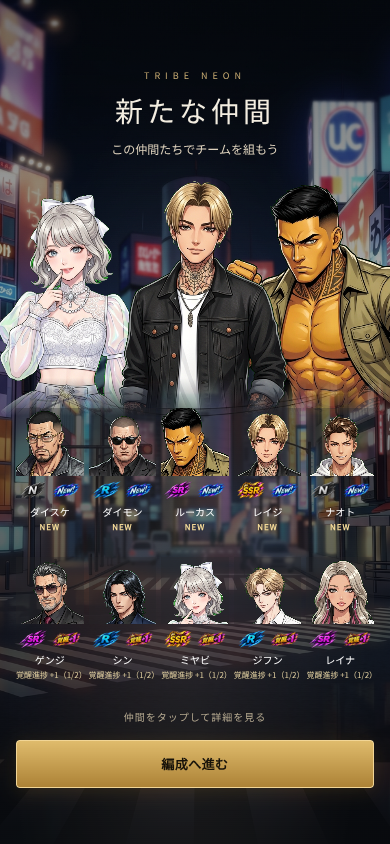
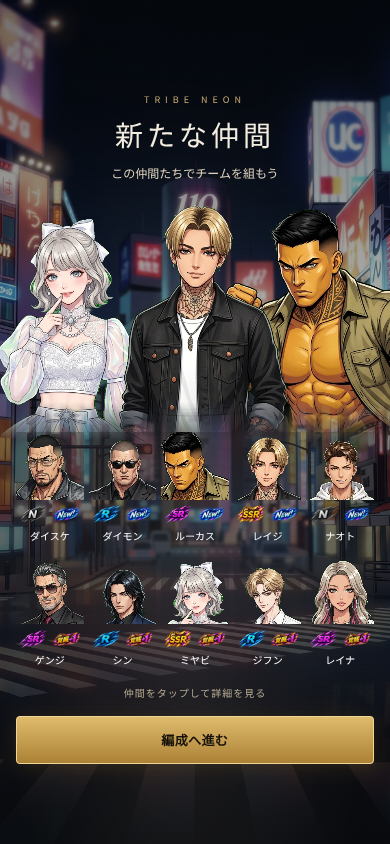
Replace gacha opening with timed city strips and simplify acquisition reveals

diff --git a/src/app/components/gacha/CharacterGachaPresentation.tsx b/src/app/components/gacha/CharacterGachaPresentation.tsx
@@ -23,7 +23,7 @@ type Props = {
   onClose: () => void;
   playSound: (sound: "GACHA_REVEAL" | "GACHA_SR" | "GACHA_SSR") => void;
 };
-type Stage = "OPENING" | "BURST" | "QUOTE" | "IGNITION" | "REVEAL" | "SETTLED" | "SUMMARY";
+type Stage = "OPENING" | "BURST" | "QUOTE" | "REVEAL" | "SETTLED" | "SUMMARY";
 const motionQuery = "(prefers-reduced-motion: reduce)";
 const subscribeMotion = (notify: () => void) => {
   const media = window.matchMedia(motionQuery);
@@ -35,7 +35,8 @@ const town = (result: CharacterGachaResult) => getCharacterLocationBackground(CH
 const outcome = (result: CharacterGachaResult) => result.convertReward === "新規獲得" ? "NEW" : result.convertReward || "獲得";
 const number = (value: number | undefined) => typeof value === "number" && Number.isFinite(value) ? value.toLocaleString("ja-JP") : "—";
 
-const CITIES = ["新宿", "渋谷", "池袋", "六本木", "秋葉原", "川崎", "横浜"];
+const CITY_GROUPS = [["池袋", "秋葉原", "川崎", "横浜"], ["新宿", "渋谷", "六本木"]];
+const CITIES = CITY_GROUPS.flat();
 const ARRIVAL_BACKGROUND = getCharacterLocationBackground("渋谷");
 const acquisitionBadge = (result: CharacterGachaResult) => getAcquisitionBadgeAsset(result.convertReward === "新規獲得" ? "NEW" : "AWAKENING", result.awakeningLevel);
 
@@ -83,6 +84,7 @@ export default function CharacterGachaPresentation(props: Props) {
 
 function ReadyCharacterGacha({ results, tutorial, onReveal, onClose, playSound, onTextOnly }: Props & { onTextOnly: () => void }) {
   const [stage, setStage] = useState<Stage>("OPENING");
+  const [introComplete, setIntroComplete] = useState(false);
   const [index, setIndex] = useState(0);
   const [reviewing, setReviewing] = useState(false);
   const [letters, setLetters] = useState(0);
@@ -131,6 +133,12 @@ function ReadyCharacterGacha({ results, tutorial, onReveal, onClose, playSound, 
   useEffect(() => { if (shell.current) shell.current.scrollTop = 0; }, [index, reviewing]);
 
   useEffect(() => {
+    if (stage !== "OPENING" || !sceneReady) return;
+    const timer = window.setTimeout(() => setIntroComplete(true), reducedMotion ? 0 : 3000);
+    return () => window.clearTimeout(timer);
+  }, [stage, sceneReady, reducedMotion]);
+
+  useEffect(() => {
     if (stage !== "BURST" || !sceneReady) return;
     const timer = window.setTimeout(() => {
       setLetters(0);
@@ -142,7 +150,7 @@ function ReadyCharacterGacha({ results, tutorial, onReveal, onClose, playSound, 
   useEffect(() => {
     if (stage !== "QUOTE" || !sceneReady) return;
     if (reducedMotion || letters >= quote.length) {
-      const timer = window.setTimeout(() => setStage(reducedMotion ? "REVEAL" : "IGNITION"), reducedMotion ? 0 : 600);
+      const timer = window.setTimeout(() => setStage("REVEAL"), reducedMotion ? 0 : 600);
       return () => window.clearTimeout(timer);
     }
     const timer = window.setTimeout(() => setLetters((length) => length + 1), 38);
@@ -150,15 +158,9 @@ function ReadyCharacterGacha({ results, tutorial, onReveal, onClose, playSound, 
   }, [stage, letters, quote, reducedMotion, sceneReady]);
 
   useEffect(() => {
-    if (stage !== "IGNITION" || !sceneReady) return;
-    const timer = window.setTimeout(() => setStage("REVEAL"), reducedMotion ? 0 : 480);
-    return () => window.clearTimeout(timer);
-  }, [stage, sceneReady, reducedMotion]);
-
-  useEffect(() => {
     if (stage !== "REVEAL" || !sceneReady) return;
     callbacks.current.playSound(rarity === "SSR" ? "GACHA_SSR" : rarity === "SR" ? "GACHA_SR" : "GACHA_REVEAL");
-    const timer = window.setTimeout(() => setStage("SETTLED"), reducedMotion ? 0 : rarity === "SSR" ? 1500 : rarity === "SR" ? 750 : 450);
+    const timer = window.setTimeout(() => setStage("SETTLED"), reducedMotion ? 0 : rarity === "SSR" ? 750 : rarity === "SR" ? 750 : 450);
     return () => window.clearTimeout(timer);
   }, [stage, rarity, index, reducedMotion, sceneReady]);
 
@@ -168,13 +170,13 @@ function ReadyCharacterGacha({ results, tutorial, onReveal, onClose, playSound, 
   const skip = () => { announce(); setReviewing(false); setStage("SUMMARY"); };
   const tap = () => {
     // 同じタップの二重配送・ダブルタップでカードを飛ばさない。
-    if (!sceneReady) return;
+    if (!sceneReady || (stage === "OPENING" && !introComplete)) return;
     const now = performance.now();
     if (now - lastTap.current < 220) return;
     lastTap.current = now;
     if (stage === "OPENING") { announce(); setStage("BURST"); }
-    else if (stage === "QUOTE") { if (letters < quote.length) setLetters(quote.length); else setStage(reducedMotion ? "REVEAL" : "IGNITION"); }
-    else if (stage === "IGNITION" || stage === "REVEAL") setStage("SETTLED");
+    else if (stage === "QUOTE") { if (letters < quote.length) setLetters(quote.length); else setStage("REVEAL"); }
+    else if (stage === "REVEAL") setStage("SETTLED");
     else if (stage === "SETTLED") {
       if (reviewing || index + 1 >= results.length) { setReviewing(false); setStage("SUMMARY"); }
       else { const next = results[index + 1]; setIndex(index + 1); setLetters(0); setStage(next.rarity.toUpperCase() === "SSR" && resolveCharacterGachaQuote(next.characterId) ? "QUOTE" : "REVEAL"); }
@@ -200,27 +202,24 @@ function ReadyCharacterGacha({ results, tutorial, onReveal, onClose, playSound, 
       <img className="cg-city" alt="" aria-hidden="true" src={opening || stage === "SUMMARY" || stage === "QUOTE" ? ARRIVAL_BACKGROUND : town(current)} />
       <div className="cg-atmosphere" aria-hidden="true" />
       {stage !== "SUMMARY" && <header className="cg-top"><span>{opening ? `${results.length}連ガチャ` : `${index + 1} / ${results.length}`}</span><button type="button" onClick={skip}>{reviewing ? "一覧へ戻る" : "SKIP"}</button></header>}
-      {opening ? <button type="button" className="cg-opening" onClick={tap} disabled={stage === "BURST"} aria-label="ガチャ結果を開く">
-        <div className="cg-city-tour" aria-hidden="true">{CITIES.map((city, i) => <div className="cg-city-scene" key={city} style={{ "--city-index": i } as React.CSSProperties}><img src={getCharacterLocationBackground(city)} alt="" /><span>{city}</span></div>)}</div>
-        <div className="cg-city-names" aria-label="7つの街">{CITIES.map((city) => <span key={city}>{city}</span>)}</div>
-        <div className="cg-headlight" aria-hidden="true" />
-        <div className="cg-opening-copy"><strong>TAP</strong><small>タップして仲間を迎える</small></div>
+      {opening ? <button type="button" className="cg-opening" onClick={tap} disabled={stage === "BURST" || !introComplete} data-intro-complete={introComplete} aria-label="ガチャ結果を開く">
+        <div className="cg-city-tour" aria-hidden="true">{CITY_GROUPS.map((cities, group) => <div className={`cg-city-group cg-city-group-${group}`} key={group}>{cities.map((city, i) => <div className="cg-city-scene" key={city} style={{ "--city-index": i, "--city-count": cities.length } as React.CSSProperties}><img src={getCharacterLocationBackground(city)} alt="" /><span>{city}</span></div>)}</div>)}</div>
+        {introComplete && <div className="cg-opening-copy"><strong>TAP</strong><small>タップして仲間を迎える</small></div>}
       </button> : stage === "SUMMARY" ? <section className="cg-summary">
         <header><small>TRIBE NEON</small><h2>新たな仲間</h2><p>{tutorial ? "この仲間たちでチームを組もう" : `${results.length}人の獲得結果`}</p></header>
         <div className="cg-group" aria-hidden="true">{Array.from(new Map([...results].sort((a, b) => (rank[b.rarity] || 0) - (rank[a.rarity] || 0)).map((result) => [result.characterId, result])).values()).slice(0, 3).map((result, i) => <img key={result.characterId} src={result.imageUrl} alt="" style={{ "--person": i } as React.CSSProperties} />)}</div>
         <div className={`cg-grid ${results.length === 1 ? "cg-single" : ""}`}>
           {results.map((result, i) => <button type="button" key={`${result.characterId}-${i}`} onClick={() => showDetail(i)} className={`cg-mini cg-${result.rarity.toLowerCase()}`} data-result-index={i} data-character-id={result.characterId} aria-label={`${result.rarity} ${result.name} ${outcome(result)} 詳細を見る`}>
             <StandingArt result={result} variant="gacha-result-compact" />
-            <ResultBadges result={result} /><span className="cg-mini-name">{result.name}</span><small className={outcome(result) === "NEW" ? "cg-new" : ""}>{outcome(result)}</small>
+            <ResultBadges result={result} /><span className="cg-mini-name">{result.name}</span>
           </button>)}
         </div>
         <p className="cg-summary-hint">仲間をタップして詳細を見る</p>
         <OutlawButton variant="primary" className="cg-continue" onClick={() => callbacks.current.onClose()}>{tutorial ? "編成へ進む" : "ガチャへ戻る"}</OutlawButton>
-      </section> : <button type="button" className={`cg-reveal ${stage === "SETTLED" ? "is-settled" : ""}`} onClick={tap} aria-label={stage === "QUOTE" || stage === "IGNITION" ? "セリフを表示して登場演出へ" : `${current.name} ${reviewing ? "一覧へ戻る" : "タップして次へ"}`} data-character-id={stage === "QUOTE" || stage === "IGNITION" ? undefined : current.characterId} data-presentation-state={stage === "QUOTE" ? "SSR_QUOTE" : stage === "IGNITION" ? "SSR_IGNITION" : `${rarity}_REVEAL`}>
+      </section> : <button type="button" className={`cg-reveal ${stage === "SETTLED" ? "is-settled" : ""}`} onClick={tap} aria-label={stage === "QUOTE" ? "セリフを表示して登場演出へ" : `${current.name} ${reviewing ? "一覧へ戻る" : "タップして次へ"}`} data-character-id={stage === "QUOTE" ? undefined : current.characterId} data-presentation-state={stage === "QUOTE" ? "SSR_QUOTE" : `${rarity}_REVEAL`}>
         {stage === "QUOTE" ? <div className="cg-quote-intro"><span aria-hidden="true">SSR</span><blockquote aria-label={quote}><span aria-hidden="true">{quote.slice(0, reducedMotion ? quote.length : letters)}</span></blockquote><small>{letters < quote.length ? "タップで全文表示" : "TAP"}</small></div> : <div className="cg-reveal-content" key={index}>
           <div className="cg-portrait"><StandingArt result={current} /></div>
-          {rarity === "SSR" && <div className="cg-ssr-transition" aria-hidden="true"><i /><i /><i /><blockquote>{quote}</blockquote></div>}
-          <div className="cg-reveal-copy"><div className="cg-rarity-line"><ResultBadges result={current} /><span className={outcome(current) === "NEW" ? "cg-new" : ""}>{outcome(current)}</span></div>
+          <div className="cg-reveal-copy"><div className="cg-rarity-line"><ResultBadges result={current} /></div>
             <h2>{current.name}</h2><p className="cg-origin">{[current.role, current.attribute].filter(Boolean).join(" / ")}</p>
             {quote && <blockquote>{quote}</blockquote>}
             <dl className="cg-stats" aria-label="初期パラメータ">{(["hp", "atk", "def"] as const).map((key) => <div key={key}><dt>{key.toUpperCase()}</dt><dd>{number(current[key])}</dd></div>)}</dl>

diff --git a/src/app/components/gacha/CharacterGachaPresentation.css b/src/app/components/gacha/CharacterGachaPresentation.css
@@ -8,14 +8,9 @@
 .cg-top{position:absolute;top:0;left:0;right:0;z-index:5;display:flex;align-items:center;justify-content:space-between;padding:max(12px,env(safe-area-inset-top)) 18px 8px;font-size:12px;letter-spacing:2px}
 .cg-top button{border:0;background:#07090a60;color:#eee;padding:12px;font-size:11px;min-height:44px}
 .cg-opening{display:flex;position:relative;align-items:center;justify-content:flex-end;flex-direction:column;width:100%;min-height:530px;height:100%;padding:80px 20px max(64px,env(safe-area-inset-bottom));border:0;background:transparent;color:#fff;overflow:hidden}
-.cg-approach{position:absolute;inset:20% 0 15%;pointer-events:none}
-.cg-approach img{position:absolute;height:86%;width:76%;object-fit:contain;object-position:50% 100%;left:12%;bottom:0;filter:brightness(0) drop-shadow(0 0 6px #d7b97566);opacity:.94}
-.cg-approach img:nth-child(2){left:-24%;transform:scale(.6);transform-origin:50% 85%;opacity:.85}
-.cg-approach img:nth-child(3){left:46%;transform:scale(.62);transform-origin:50% 85%;opacity:.85}
 .cg-headlight{position:absolute;left:10%;right:10%;top:40%;height:45%;background:radial-gradient(ellipse at 50% 55%,color-mix(in srgb,var(--cg-accent) 27%,transparent),transparent 65%);mix-blend-mode:screen;pointer-events:none;animation:cg-light 2s ease-in-out infinite alternate}
 .cg-opening-copy{position:relative;display:grid;gap:10px;text-shadow:0 2px 10px #000;z-index:2}.cg-opening-copy strong{font-size:30px;font-weight:500;letter-spacing:8px;color:#f5e5c7}.cg-opening-copy small{font-size:12px;letter-spacing:2px;color:#ded4c0}
-.cg-stage-burst .cg-approach{animation:cg-approach .62s ease-in both}.cg-stage-burst .cg-headlight{animation:cg-flash .62s ease-out both}
-.cg-reveal{display:block;width:100%;min-height:620px;height:100%;position:relative;border:0;background:transparent;color:inherit;text-align:left;padding:64px 0 20px}
+.cg-stage-burst .cg-reveal{display:block;width:100%;min-height:620px;height:100%;position:relative;border:0;background:transparent;color:inherit;text-align:left;padding:64px 0 20px}
 .cg-reveal-content{height:100%;display:flex;flex-direction:column;justify-content:flex-end;position:relative}
 .cg-portrait{position:absolute;inset:0 0 160px;overflow:hidden;animation:cg-arrive .75s ease-out both}
 .cg-standing{border:0;background:transparent;box-shadow:none;margin:0;overflow:hidden;width:100%;height:100%}
@@ -47,7 +42,6 @@
 .cg-loading p{font-size:14px}.cg-loading button{font-family:inherit;color:inherit;padding:12px;border:1px solid #b6a07e;background:#16171b}.cg-loading li{font-size:13px;line-height:1.9}
 @keyframes cg-mist{to{opacity:.5;transform:translateX(3%)}}
 @keyframes cg-light{to{opacity:.45;transform:scale(1.1)}}
-@keyframes cg-approach{to{transform:scale(1.25);opacity:0}}
 @keyframes cg-flash{30%{opacity:1;filter:brightness(2)}to{opacity:0;transform:scale(1.4)}}
 @keyframes cg-arrive{from{opacity:0;transform:scale(1.035);filter:brightness(1.5)}to{opacity:1;transform:none;filter:brightness(1)}}
 @keyframes cg-copy{from{opacity:0;transform:translateY(8px)}to{opacity:1;transform:none}}
@@ -58,41 +52,32 @@
 .cg-waiting{visibility:hidden}.cg-waiting *{animation-play-state:paused!important}
 .cg-scene-loading{position:absolute;inset:0;margin:auto;z-index:1}
 
-/* 既存7街の背景を短いクロスフェードで巡る。見切るまで待つ必要はない。 */
-.cg-city-tour{position:absolute;inset:0;pointer-events:none}
-.cg-city-scene{position:absolute;inset:0;opacity:0;animation:cg-city-cycle 8.4s linear infinite;animation-delay:calc(var(--city-index) * 1.2s)}
-.cg-city-scene:first-child{opacity:1}
-.cg-city-scene img{width:100%;height:100%;object-fit:cover;filter:brightness(.66) saturate(1.1)}
-.cg-city-scene:after{content:"";position:absolute;inset:0;background:linear-gradient(0deg,#070910 4%,transparent 50%,#03071155)}
-.cg-city-scene>span{position:absolute;left:28px;top:28%;z-index:1;font-size:38px;letter-spacing:9px;text-shadow:0 0 24px #000;color:#f4efe6}
-.cg-city-names{position:relative;z-index:2;display:flex;flex-wrap:wrap;justify-content:center;gap:10px 16px;max-width:300px;margin-bottom:35px;font-size:11px;letter-spacing:2px;color:#e0d9ed}
-.cg-headlight{background:radial-gradient(ellipse at 50% 55%,color-mix(in srgb,var(--cg-accent) 30%,transparent),transparent 60%)}
-.cg-stage-burst .cg-city-tour{animation:cg-city-depart .62s ease-in both}
+
+/* 横長の街を4枚→3枚の順で見せ、3秒後に操作を開放する。 */
+.cg-stage-opening>.cg-city,.cg-stage-burst>.cg-city{visibility:hidden}
+.cg-opening:disabled{opacity:1;cursor:default}
+.cg-city-tour{position:absolute;inset:13% 0 23%;pointer-events:none;overflow:hidden}
+.cg-city-group{position:absolute;inset:0}
+.cg-city-group-0{animation:cg-first-cities 1.65s linear both}
+.cg-city-group-1{animation:cg-last-cities 1ms 1.5s both}
+.cg-city-scene{position:absolute;left:-8%;width:116%;height:calc(100% / var(--city-count) - 5px);top:calc(var(--city-index) * 100% / var(--city-count));overflow:hidden;transform:skewY(-6deg);animation:cg-strip-in .5s cubic-bezier(.2,.7,.2,1) both;animation-delay:calc(var(--city-index) * .12s)}
+.cg-city-group-1 .cg-city-scene{animation-delay:calc(1.5s + var(--city-index) * .15s)}
+.cg-city-scene:nth-child(even){--slide-x:110%;--slide-y:-35px}
+.cg-city-scene:nth-child(odd){--slide-x:-110%;--slide-y:35px}
+.cg-city-scene img{width:100%;height:150%;margin-top:-8%;object-fit:cover;object-position:50% 45%;transform:skewY(6deg);filter:brightness(.75)}
+.cg-city-scene:after{content:"";position:absolute;inset:0;background:linear-gradient(90deg,#07091099,transparent 75%)}
+.cg-city-scene>span{position:absolute;left:15%;top:35%;z-index:1;font-size:30px;letter-spacing:6px;text-shadow:0 2px 8px #000;transform:skewY(6deg)}
+.cg-opening-copy{position:relative;z-index:2;animation:cg-copy .25s both}
+.cg-stage-burst .cg-city-tour{opacity:0;transition:opacity .35s}
 .cg-existing-badges{display:flex;align-items:center;justify-content:center;gap:6px;min-height:24px}
 .cg-existing-badges img{object-fit:contain;display:block}
 .cg-rarity-badge{width:64px;height:40px}.cg-acquisition-badge{width:60px;height:36px}
 .cg-mini .cg-existing-badges{gap:1px;height:25px;min-height:25px;margin-top:2px}
 .cg-mini .cg-rarity-badge{width:48%;height:25px}.cg-mini .cg-acquisition-badge{width:48%;height:24px}
 .cg-rarity-line .cg-existing-badges{justify-content:flex-start;flex-shrink:0}
-.cg-ssr-transition{display:none;position:absolute;inset:0;z-index:3;pointer-events:none;overflow:hidden}
-.cg-stage-ignition .cg-ssr-transition,.cg-ssr.cg-stage-reveal .cg-ssr-transition{display:block}
-.cg-stage-ignition .cg-portrait,.cg-stage-ignition .cg-reveal-copy{visibility:hidden;animation:none}
-.cg-ssr-transition blockquote{position:absolute;inset:24% 28px auto;color:#f9df9e;text-align:center;font-size:25px;line-height:1.85}
-.cg-stage-ignition .cg-ssr-transition blockquote{animation:cg-quote-away .48s ease-in both}
-.cg-stage-reveal .cg-ssr-transition blockquote{display:none}
-.cg-ssr-transition i{position:absolute;inset:-20%;opacity:0;background:linear-gradient(115deg,transparent 43%,#ecd08288 49%,#ffffdebb 50%,#a687e677 52%,transparent 58%);mix-blend-mode:screen}
-.cg-stage-ignition .cg-ssr-transition i:first-child{animation:cg-neon-sweep .48s ease-in both}
-.cg-ssr.cg-stage-reveal .cg-ssr-transition i:nth-child(2){animation:cg-neon-sweep .8s ease-out both}
-.cg-ssr.cg-stage-reveal .cg-ssr-transition i:nth-child(3){background:radial-gradient(ellipse at 50% 30%,#e6c88b66,transparent 65%);animation:cg-impact-glow .9s ease-out both}
-.cg-ssr.cg-stage-reveal .cg-portrait{animation:cg-premium-arrive 1.15s cubic-bezier(.16,.7,.22,1) both}
-.cg-ssr.cg-stage-reveal .cg-rarity-line,.cg-ssr.cg-stage-reveal h2{animation:cg-copy .4s .45s both}
-.cg-ssr.cg-stage-reveal .cg-stats{animation:cg-copy .4s .95s both}
-.cg-stage-ignition .cg-city{animation:cg-city-charge .48s ease-in both}
-@keyframes cg-city-cycle{0%,13%{opacity:1}16%,97%{opacity:0}100%{opacity:1}}
-@keyframes cg-city-depart{to{transform:scale(1.1);filter:brightness(1.5);opacity:0}}
-@keyframes cg-quote-away{to{opacity:0;transform:translateY(-8px);filter:blur(3px)}}
-@keyframes cg-neon-sweep{0%{opacity:0;transform:translateX(-65%)}35%{opacity:.9}100%{opacity:0;transform:translateX(65%)}}
-@keyframes cg-impact-glow{from{opacity:.8}to{opacity:0}}
-@keyframes cg-city-charge{to{filter:brightness(1.15) saturate(1.4)}}
-@keyframes cg-premium-arrive{from{opacity:0;transform:translateY(20px) scale(1.06);filter:brightness(1.8)}35%{opacity:1}to{opacity:1;transform:none;filter:brightness(1)}}
-@media(prefers-reduced-motion:reduce){.cg-city-scene{animation:none!important;opacity:0}.cg-city-scene:first-child{opacity:1}.cg-ssr-transition{display:none!important}.cg-shell *{animation:none!important}}
+.cg-ssr.cg-stage-reveal .cg-portrait{animation:cg-simple-fade .35s ease-out both}
+@keyframes cg-strip-in{from{opacity:0;transform:translate(var(--slide-x),var(--slide-y)) skewY(-6deg)}to{opacity:1;transform:skewY(-6deg)}}
+@keyframes cg-first-cities{0%,85%{opacity:1;visibility:visible}100%{opacity:0;visibility:hidden}}
+@keyframes cg-last-cities{from{visibility:hidden}to{visibility:visible}}
+@keyframes cg-simple-fade{from{opacity:0}to{opacity:1}}
+@media(prefers-reduced-motion:reduce){.cg-city-group-0{display:none}.cg-city-group-1{visibility:visible}.cg-city-scene{animation:none!important}.cg-shell *{animation:none!important}}

diff --git a/tests/e2e/gacha-character-v3.spec.ts b/tests/e2e/gacha-character-v3.spec.ts
@@ -14,7 +14,7 @@ for (const viewport of [{ width: 390, height: 844 }, { width: 320, height: 568 }
     const cards = page.locator(".cg-mini");
     await expect(cards).toHaveCount(10);
     await expect(cards.nth(5).locator(".cg-acquisition-badge")).toHaveAttribute("src", "/ui/rarity/badge-awakening-plus-1.png");
-    await expect(cards.nth(5).locator("small")).toContainText("覚醒進捗 +1");
+    await expect(cards.locator("small")).toHaveCount(0);
     expect(await cards.locator(".cg-rarity-badge").evaluateAll((nodes) => nodes.map((node) => node.getAttribute("alt")))).toEqual(["N", "R", "SR", "SSR", "N", "SR", "R", "SSR", "R", "SR"]);
     const rects = await cards.evaluateAll((nodes) => nodes.map((node) => ({x: node.getBoundingClientRect().x, y: node.getBoundingClientRect().y})));
     expect(new Set(rects.slice(0, 5).map((rect) => rect.y)).size).toBe(1);
@@ -36,13 +36,15 @@ for (const viewport of [{ width: 390, height: 844 }, { width: 320, height: 568 }
 
 test("SSR typing completes on tap; skip cancels timers; single normal pull closes", async ({ page }) => {
   await page.goto("/qa/presentation?scenario=gacha-character-v3&single=true&tutorial=false");
+  await expect(page.locator(".cg-opening")).toBeEnabled();
+  await page.waitForTimeout(300);
   await page.clock.install();
   await page.getByRole("button", { name: "ガチャ結果を開く", exact: true }).click();
   await page.clock.runFor(650);
   const shell = page.locator(".cg-shell");
   await expect(shell).toHaveAttribute("data-stage", "QUOTE");
   await expect(page.locator(".cg-reveal")).not.toHaveAttribute("data-character-id");
-  await page.locator(".cg-reveal").click();
+  await page.locator(".cg-reveal").dispatchEvent("click");
   const quote = page.locator(".cg-quote-intro blockquote");
   expect(await quote.textContent()).toBe(await quote.getAttribute("aria-label"));
   await page.getByRole("button", { name: "SKIP", exact: true }).click();
@@ -55,6 +57,8 @@ test("SSR typing completes on tap; skip cancels timers; single normal pull close
 
 test("N/R/SR advance directly; fast taps complete animation without skipping cards", async ({ page }) => {
   await page.goto("/qa/presentation?scenario=gacha-character-v3");
+  await expect(page.locator(".cg-opening")).toBeEnabled();
+  await page.waitForTimeout(300);
   await page.clock.install();
   await page.getByRole("button", { name: "ガチャ結果を開く", exact: true }).click();
   await page.clock.runFor(650);
@@ -66,6 +70,7 @@ test("N/R/SR advance directly; fast taps complete animation without skipping car
   await page.clock.runFor(250);
   await reveal.click();
   await expect(page.locator(".cg-top>span")).toHaveText("2 / 10");
+  await expect(page.locator(".cg-shell")).not.toHaveClass(/cg-waiting/);
   await page.clock.runFor(800);
   await reveal.click();
   await expect(page.locator(".cg-top>span")).toHaveText("3 / 10");
@@ -73,24 +78,30 @@ test("N/R/SR advance directly; fast taps complete animation without skipping car
   await expect(page.locator(".gacha-character-logo-gate")).toHaveCount(0);
 });
 
-test("SSR quote ignites before identity reveal and existing badges appear", async ({ page }) => {
+test("SSR uses a simple reveal without added light layers", async ({ page }) => {
   await page.goto("/qa/presentation?scenario=gacha-character-v3&single=true&rarity=SSR");
-  await page.clock.install();
   await page.getByRole("button", { name: "ガチャ結果を開く", exact: true }).click();
-  await page.clock.runFor(650);
   await expect(page.locator(".cg-shell")).toHaveAttribute("data-stage", "QUOTE");
   await page.locator(".cg-reveal").click();
-  await page.clock.runFor(610);
-  await expect(page.locator(".cg-shell")).toHaveAttribute("data-stage", "IGNITION");
-  await expect(page.locator(".cg-reveal")).not.toHaveAttribute("data-character-id");
-  await expect(page.locator(".cg-portrait")).toBeHidden();
-  await expect(page.locator(".cg-ssr-transition")).toBeVisible();
-  await page.clock.runFor(490);
-  await expect(page.locator(".cg-shell")).toHaveAttribute("data-stage", "REVEAL");
-  await expect(page.locator(".cg-rarity-badge")).toHaveAttribute("src", "/ui/rarity/rarity-badge-ssr.png");
-  await page.clock.runFor(1510);
   await expect(page.locator(".cg-shell")).toHaveAttribute("data-stage", "SETTLED");
-  await expect(page.locator(".cg-ssr-transition")).toBeHidden();
+  await expect(page.locator(".cg-ssr-transition")).toHaveCount(0);
+  await expect(page.locator(".cg-rarity-badge")).toHaveAttribute("src", "/ui/rarity/rarity-badge-ssr.png");
+  await expect(page.locator(".cg-rarity-line>span")).toHaveCount(1);
+});
+test("intro holds TAP until the four then three city sequence completes", async ({ page }) => {
+  await page.clock.install();
+  await page.goto("/qa/presentation?scenario=gacha-character-v3");
+  await expect(page.locator(".cg-shell")).not.toHaveClass(/cg-waiting/);
+  const tap = page.getByRole("button", { name: "ガチャ結果を開く", exact: true });
+  await expect(tap).toBeDisabled();
+  await expect(page.locator(".cg-opening-copy")).toHaveCount(0);
+  await expect(page.locator(".cg-city-group-0 .cg-city-scene")).toHaveCount(4);
+  expect(await page.locator(".cg-city-group-1 .cg-city-scene>span").allTextContents()).toEqual(["新宿", "渋谷", "六本木"]);
+  await page.clock.runFor(2900);
+  await expect(tap).toBeDisabled();
+  await page.clock.runFor(110);
+  await expect(tap).toBeEnabled();
+  await expect(page.locator(".cg-opening-copy")).toBeVisible();
 });
 
 test("reduced motion and keyboard keep controls reachable", async ({ page }) => {

diff --git a/docs/qa/gacha-presentation-20260908/README.md b/docs/qa/gacha-presentation-20260908/README.md
@@ -5,9 +5,10 @@
 ## 今回の変更
 
 - キャラクター画像は既存立ち絵のみ。描き起こし・ポーズ変更なし。
-- 導入は既存の新宿・渋谷・池袋・六本木・秋葉原・川崎・横浜の背景をクロスフェード。シルエットは撤去。7街を8.4秒で巡回するが、タップは最初から可能。
+- 導入は既存背景を横長に切り抜き、街名と斜めスライド。前半4街（池袋・秋葉原・川崎・横浜）→後半3街（新宿・渋谷・六本木）、計3秒後にTAPを表示・有効化。最後の3街で停止し、SKIPは常時利用可能。reduced motionでは最終3街を静止表示する。
 - 既存のレアリティ・NEW・覚醒段階バッジを再利用。覚醒は結果が持つ実段階を表示し、進捗増加を段階上昇として扱わない。
-- SSRはセリフ全文後600msの余韻、480msの光の走査、立ち絵・街の発光・登場SE、名前・バッジ・能力値の順に展開。登場は1500msで落ち着き、タップで短縮可能。reduced motionでは動きを省略。
+- NEW・覚醒の重複テキストは撤去し、既存NEW／＋1〜＋5バッジに統一。画像取得失敗時の文字結果と読み上げ情報は保持する。
+- SSRの追加光・発光・拡大演出を撤去。FIX済みセリフを残し、350msの短いフェードで立ち絵に切り替える。通常の登場SEは維持。
 - カード裏面・扇状配置・金属フレームを撤去。登場は顔・表情を大きく見せ、名前と確定セリフを重視。
 - 一覧上部は獲得した仲間の立ち絵から最大3人を表示（最高レアリティを中央）。下の10件は取得順を保った5列2行の顔一覧。
 - タップで演出完了、次タップで次へ、SKIP、人物の再表示、編成CTAは維持。
